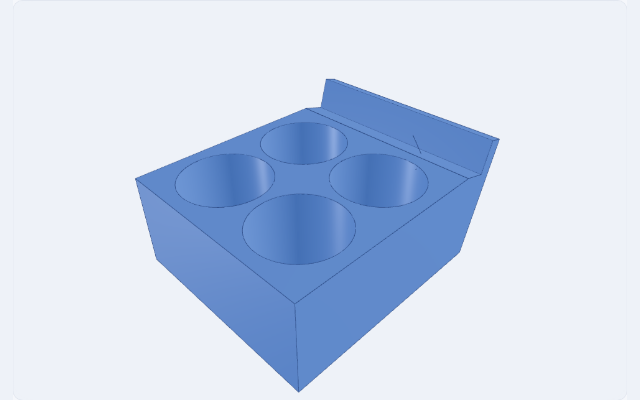
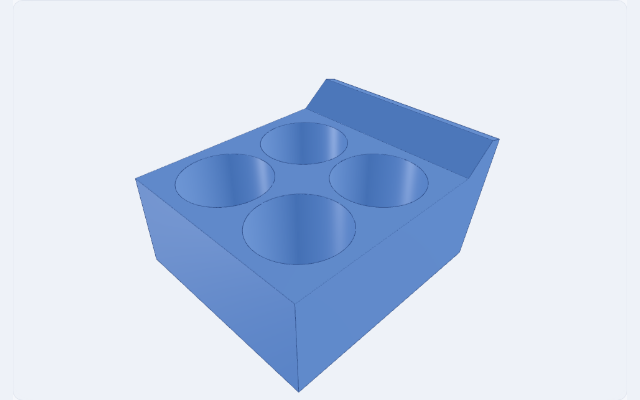
fix: flush tilted organizer transition

Changed region(s): [[0.625, 0.36, 0.75, 0.45], [0.4688, 0.21, 0.5312, 0.3], [0.5312, 0.3, 0.625, 0.36]]

diff --git a/tests/worker/opengrid-openconnect-organizer.integration.test.ts b/tests/worker/opengrid-openconnect-organizer.integration.test.ts
@@ -3,15 +3,19 @@ import { readFileSync } from 'node:fs'
 import { dirname } from 'node:path'
 import { fileURLToPath } from 'node:url'
 import { beforeAll, describe, expect, it } from 'vitest'
-import { measureVolume, setOC, type Shape3D } from 'replicad'
+import { makeBox, measureVolume, setOC, type Shape3D } from 'replicad'
 import {
   boundsForOpenGridOpenConnectOrganizer,
+  openGridOpenConnectOrganizerLayoutFor,
   openGridOpenConnectOrganizerTiltAxisFor,
   OPENGRID_OPENCONNECT_ORGANIZER_DEFAULT_PARAMETERS,
   type OpenGridOpenConnectOrganizerParameters,
   type OpenGridOpenConnectOrganizerShape,
 } from '../../src/cad-contract/units'
-import { buildOpenGridOpenConnectOrganizer } from '../../src/cad-kernel/components/opengrid-openconnect-organizer/builder'
+import {
+  applyOpenGridOpenConnectOrganizerOwnedTransforms,
+  buildOpenGridOpenConnectOrganizer,
+} from '../../src/cad-kernel/components/opengrid-openconnect-organizer/builder'
 import { inspectOpenGridOpenConnectOrganizerShapeQuality } from '../../src/cad-kernel/components/opengrid-openconnect-organizer/quality'
 import {
   importOpenGridOpenConnectShelfLockedSlot,
@@ -284,6 +288,52 @@ describe('OpenGrid OpenConnect organizer CAD kernel integration', () => {
       expect(quality.interfacePlaneParallelToWall).toBe(true)
       expect(quality.passed).toBe(true)
     } finally {
+      deleteShape(shape)
+      deleteShape(slot)
+    }
+  }, 180_000)
+
+  it('joins a tilted body to the rear interface top without an exposed lip', async () => {
+    const value = parameters({
+      holeCountX: 1,
+      holeCountY: 1,
+      holeDepth: 30,
+      bottomThickness: 4,
+      tiltAngle: 30,
+    })
+    const layout = openGridOpenConnectOrganizerLayoutFor(value)
+    const radians = (value.tiltAngle * Math.PI) / 180
+    const bodyTopZ =
+      layout.installedBodyPivotZ + layout.bodyThickness * Math.cos(radians)
+    const probeTopInset = Math.min(
+      0.4,
+      (layout.rearInterfaceHeight - bodyTopZ) / 4,
+    )
+    const probeCenterZ = layout.rearInterfaceHeight - probeTopInset
+    const installedProbe = makeBox(
+      [layout.bodyWidth / 2 - 2, -0.4, probeCenterZ - probeTopInset / 2],
+      [layout.bodyWidth / 2 - 1, -0.2, probeCenterZ + probeTopInset / 2],
+    )
+    const printProbe = applyOpenGridOpenConnectOrganizerOwnedTransforms(
+      installedProbe,
+      [
+        (current) => current.translate(0, 0, -layout.installedBodyPivotZ),
+        (current) => current.rotate(-value.tiltAngle, [0, 0, 0], [1, 0, 0]),
+      ],
+    )
+    const slot = await lockedSlotSource()
+    const shape = await buildOpenGridOpenConnectOrganizer(value, {
+      getLockedSlot: async () => slot,
+    })
+    let overlap: Shape3D | null = null
+    try {
+      overlap = shape.intersect(printProbe)
+      expect(measureVolume(overlap)).toBeGreaterThanOrEqual(
+        measureVolume(printProbe) * 0.9,
+      )
+    } finally {
+      deleteShape(overlap)
+      deleteShape(printProbe)
       deleteShape(shape)
       deleteShape(slot)
     }

diff --git a/src/cad-kernel/components/opengrid-openconnect-organizer/builder.ts b/src/cad-kernel/components/opengrid-openconnect-organizer/builder.ts
@@ -228,7 +228,10 @@ function makeTransition(
   const upperZ =
     layout.installedBodyPivotZ + layout.bodyThickness * Math.cos(radians)
   const lowerZ = layout.installedBodyPivotZ
-  const plateTopZ = Math.max(upperZ, FUSION_OVERLAP)
+  let plateTopZ = Math.max(upperZ, FUSION_OVERLAP)
+  if (parameters.tiltAngle > 0) {
+    plateTopZ = layout.rearInterfaceHeight
+  }
   const rearThickness =
     OPENGRID_OPENCONNECT_ORGANIZER_CONFIGURATION.rearThickness
   const sketcher = new Sketcher('YZ', [-layout.bodyWidth / 2, 0, 0])
@@ -236,7 +239,7 @@ function makeTransition(
   try {
     sketcher.movePointerTo([0, lowerZ])
     sketcher.lineTo([rearThickness, 0])
-    sketcher.lineTo([rearThickness, plateTopZ])
+    sketcher.lineTo([0, plateTopZ])
     sketcher.lineTo([upperY - FUSION_OVERLAP, upperZ])
     sketch = sketcher.close()
     return sketch.extrude(layout.bodyWidth, {

diff --git a/openspec/specs/opengrid-openconnect-organizer/spec.md b/openspec/specs/opengrid-openconnect-organizer/spec.md
@@ -237,6 +237,11 @@ OpenConnect head. Receptacles, cavities, and the transition joining the tilted
 body to the rear interface MUST retain at least 0.5 mm of separating material
 and MUST form one watertight solid.
 
+At every positive `tiltAngle`, the upper transition surface MUST meet the front
+top edge of the rear interface. The rear-interface plate MUST NOT stand above
+that transition as a separate projecting lip between the tilted body and the
+wall-facing plate.
+
 #### Scenario: Mount directly with the default interface
 
 - **WHEN** the default two-by-two circular organizer is generated
@@ -251,6 +256,13 @@ and MUST form one watertight solid.
 - **THEN** every OpenConnect female opening plane MUST remain parallel to the
   wall plane
 - **AND** every OpenConnect insertion axis MUST remain perpendicular to the wall
+
+#### Scenario: Keep the tilted transition flush with the rear interface
+
+- **WHEN** the organizer is generated with a positive `tiltAngle`
+- **THEN** the transition MUST extend continuously from the tilted body to the
+  front top edge of the rear interface
+- **AND** the rear-interface plate MUST NOT form a separate projecting upper lip
 
 #### Scenario: Grow connector occupancy with the organizer
 
